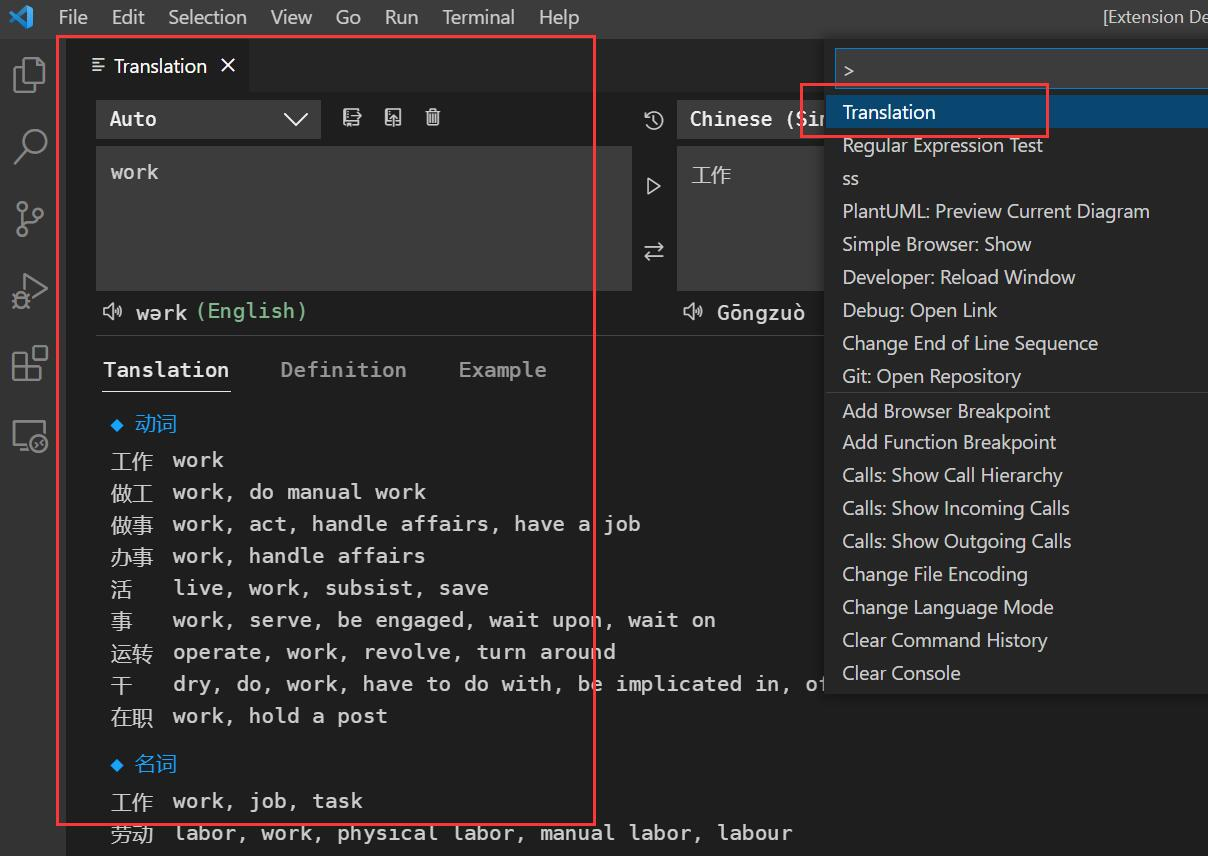
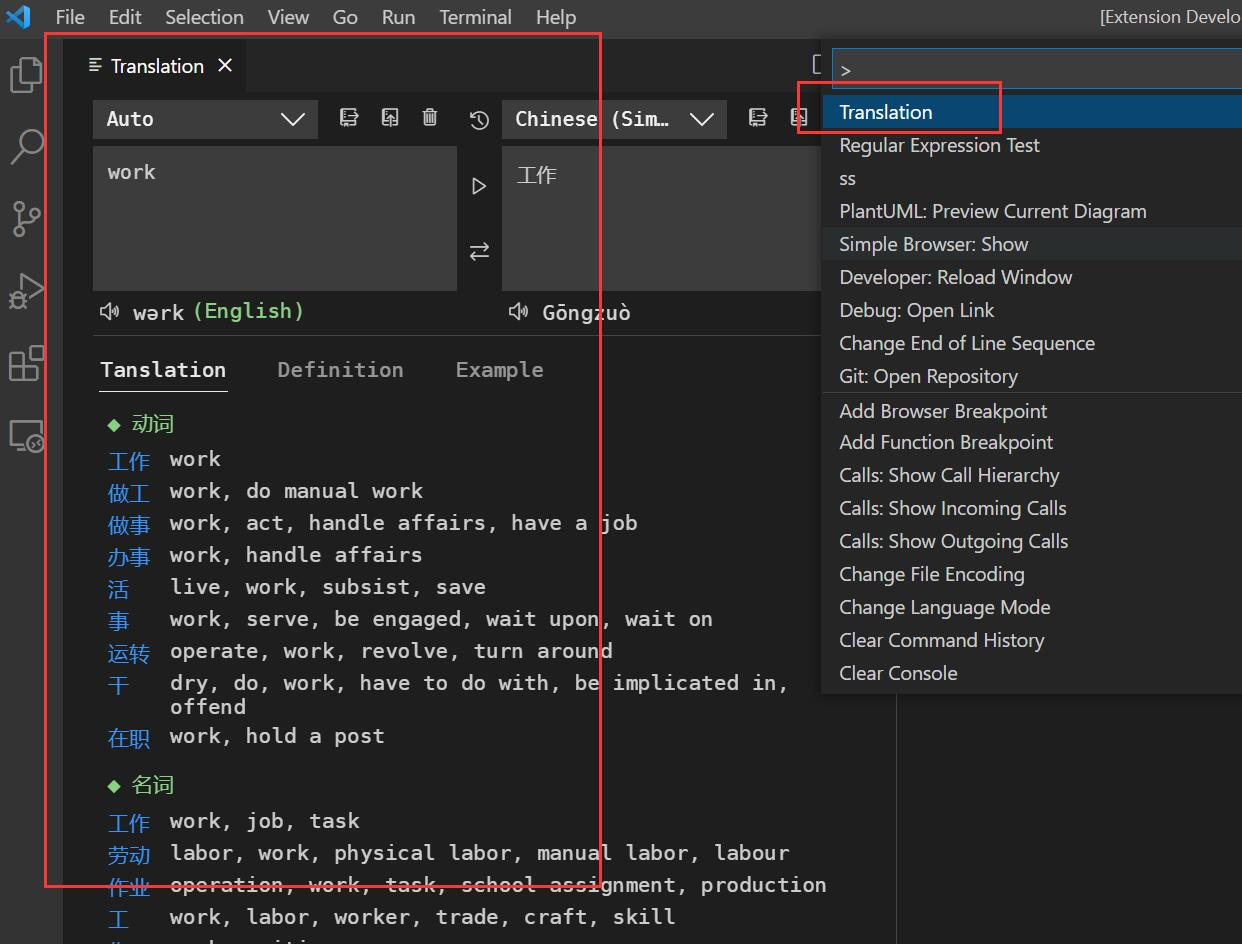
First complete version release.

Changed region(s): [[0.0, 0.0, 1.0, 1.0], [0.2144, 0.4252, 0.3369, 0.4556]]

diff --git a/src/webview/translation.html b/src/webview/translation.html
@@ -89,7 +89,7 @@
         }
 
         .pronunceSourceLang {
-            color: var(--vscode-gitDecoration-addedResourceForeground);
+            color: var(--vscode-charts-green);
         }
 
         .exampleIndex {
@@ -102,7 +102,7 @@
 
         .dictPos {
             margin-bottom: 5px;
-            color: var(--vscode-list-highlightForeground);
+            color: var(--vscode-charts-green);
         }
 
         .dictEntry {
@@ -112,6 +112,12 @@
         .dictWord {
             padding-right: 10px;
             word-break: keep-all;
+            vertical-align: top;
+            color: var(--vscode-charts-blue);
+        }
+
+        .dictReverse {
+            vertical-align: top;
         }
 
         .dictPosIcon {
@@ -128,6 +134,16 @@
 
         .link {
             cursor: pointer;
+        }
+
+        .link:hover {
+            border: 1px solid;
+        }
+
+        .defineTitle {
+            word-break: keep-all;
+            vertical-align: top;
+            color: var(--vscode-charts-blue);
         }
     </style>
 </head>
@@ -261,7 +277,7 @@
                                         <tr v-for="(j, jIndex) in i.entry" :key="j.word + jIndex">
                                             <td class="dictWord"><span class="link"
                                                     @click="toSwapQuery(j.word)">{{j.word}}</span></td>
-                                            <td>
+                                            <td class="dictReverse">
                                                 <span v-html="getDictReverse(j.reverse_translation)"></span>
                                             </td>
                                         </tr>
@@ -285,7 +301,41 @@
                 </vscode-panel-view>
 
                 <vscode-panel-view aria-labelledby="definition">
-                    Coming soon ...
+                    <div v-if="state.result.definitions">
+                        <div class="exampleItem" v-for="(i, index) in state.result.definitions" :key="i.pos + index">
+                            <div class="dictPos"><span
+                                    class="codicon codicon-debug-breakpoint-log dictPosIcon"></span>{{i.pos}}</div>
+                            <div class="dictEntry">
+                                <table>
+                                    <tbody>
+                                        <template v-for="(j, jIndex) in i.entry" :key="j.gloss + jIndex">
+                                            <tr>
+                                                <td class="dictWord" rowspan="3">
+                                                    <vscode-badge>{{jIndex + 1}}</vscode-badge>
+                                                </td>
+                                                <td class="defineTitle">Definition:</td>
+                                                <td>{{j.gloss}}</td>
+                                            </tr>
+                                            <tr>
+                                                <td class="defineTitle">Example:</td>
+                                                <td>{{j.example}}</td>
+                                            </tr>
+                                            <tr>
+                                                <td class="defineTitle">Synonym:</td>
+                                                <td>
+                                                    <span
+                                                        v-html="getDictReverse(getSynsetsByDefineId(j.definition_id))"></span>
+                                                </td>
+                                            </tr>
+                                        </template>
+                                    </tbody>
+                                </table>
+                            </div>
+                        </div>
+                    </div>
+                    <div v-else>
+                        <div>No Data</div>
+                    </div>
                 </vscode-panel-view>
 
                 <vscode-panel-view aria-labelledby="example">
@@ -338,6 +388,15 @@
                 }, 100);
             },
             computed: {
+                synsetsEntries() {
+                    let result = [];
+                    if (this.state.result && this.state.result.synsets) {
+                        this.state.result.synsets.forEach(i => {
+                            result = [...result, ...i.entry];
+                        })
+                    }
+                    return result;
+                },
                 sourcePronunce() {
                     return this.state.result ?
                         this.state.result.sentences[1] ?
@@ -369,6 +428,15 @@
                 },
             },
             methods: {
+                getSynsetsByDefineId(id) {
+                    let result = [];
+                    this.synsetsEntries.forEach(i => {
+                        if (i.definition_id === id) {
+                            result = [...result, ...i.synonym];
+                        }
+                    });
+                    return result;
+                },
                 getDictReverse(arr) {
                     return arr.map(i => `<span class="link" onclick="appInstance.toQuery('${i}')">${i}</span>`).join(', ');
                 },

diff --git a/src/webview/regular-expression-test.html b/src/webview/regular-expression-test.html
@@ -7,11 +7,15 @@
     <link rel="stylesheet" href="css/common.css" />
     <style>
         .True {
-            color: var(--vscode-testing-iconPassed);
+            color: var(--vscode-charts-green);
         }
 
         .False {
-            color: var(--vscode-testing-iconFailed);
+            color: var(--vscode-charts-red);
+        }
+
+        .Error {
+            color: var(--vscode-charts-blue);
         }
 
         .textArea {
@@ -52,7 +56,7 @@
             </div>
             <div class="contentToTest">
                 <div class="contentToTest_textArea">
-                    <vscode-text-area class="textArea" v-model="state.content" rows="5">Content to test:
+                    <vscode-text-area class="textArea" v-model="state.content" rows="5">Test Content:
                     </vscode-text-area>
                 </div>
                 <div class="contentToTest_operation">
@@ -129,7 +133,7 @@
                                 this.state.result = '';
                             }
                         } catch (e) {
-                            this.state.result = `<span class="codicon codicon-alert"></span>&nbsp;${htmlEscape(e.message)}`;
+                            this.state.result = `<span class="Error"><span class="codicon codicon-alert"></span>&nbsp;${htmlEscape(e.message)}</span>`;
                         }
                     } else {
                         this.state.result = '';

diff --git a/CHANGELOG.md b/CHANGELOG.md
@@ -1,5 +1,8 @@
 # Change Log
 
+## 1.1.0
+- First complete version release.
+
 ## 1.0.9
 - Add complete translation.
 
